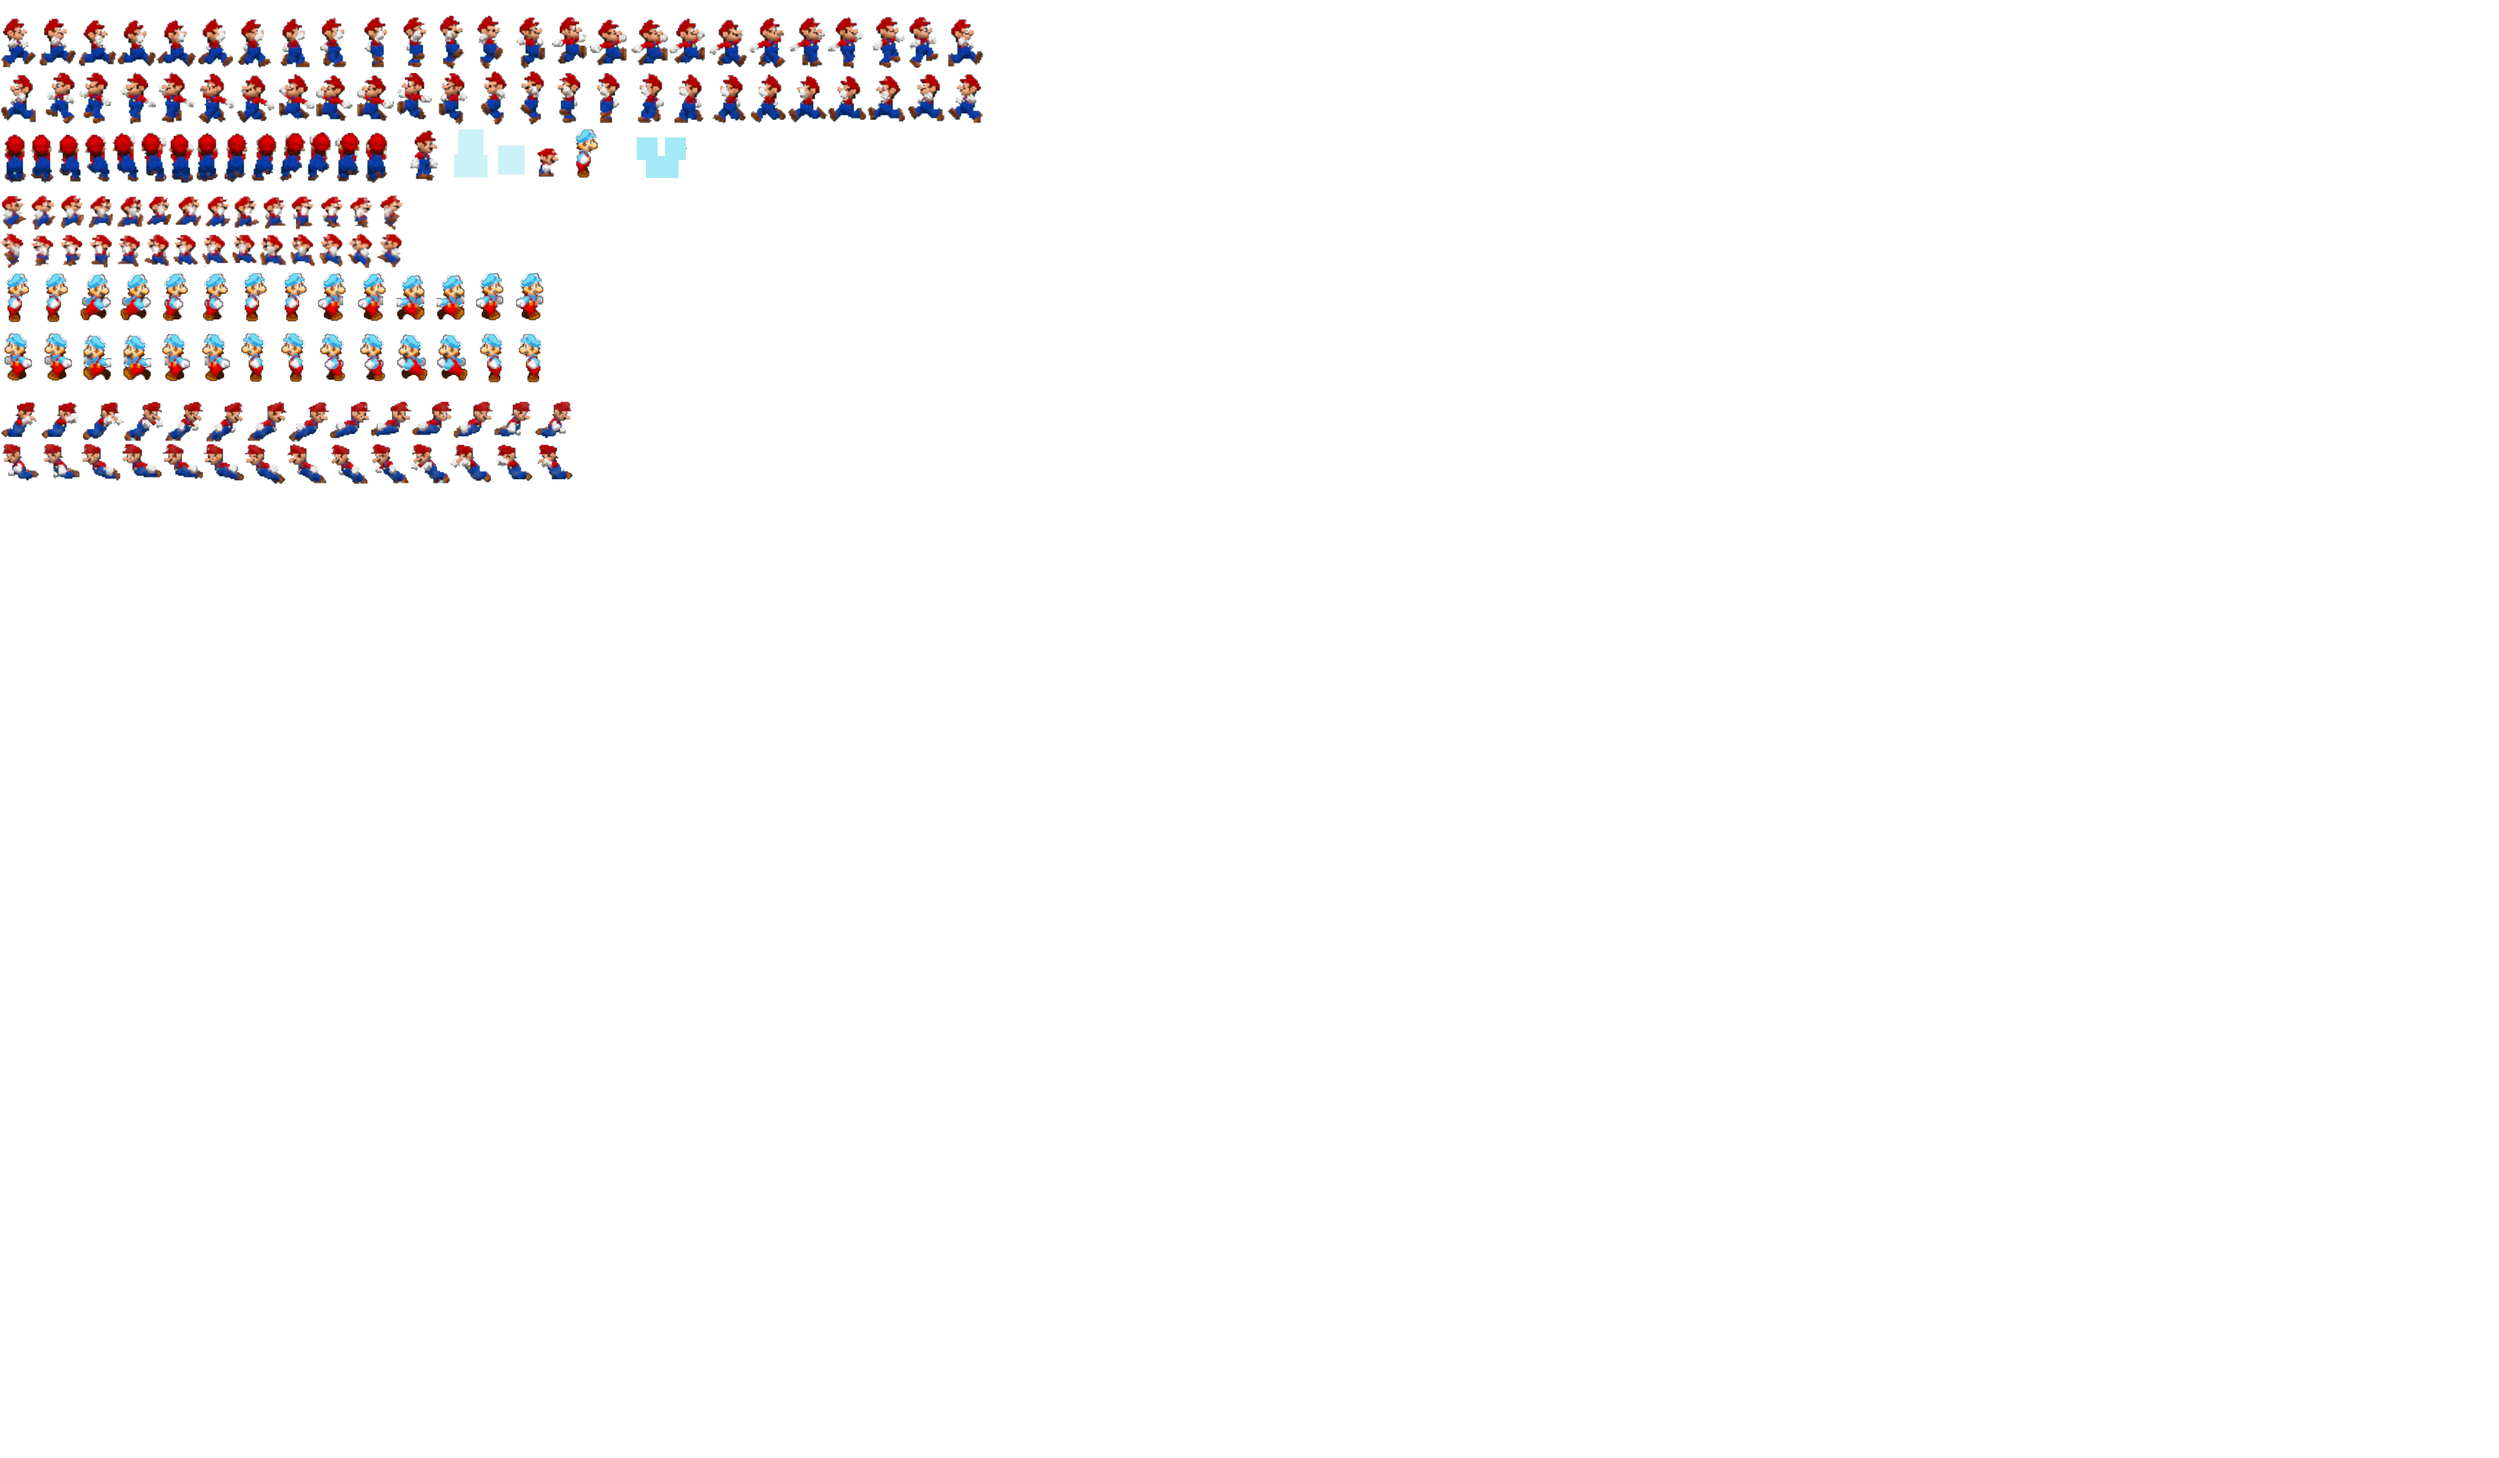
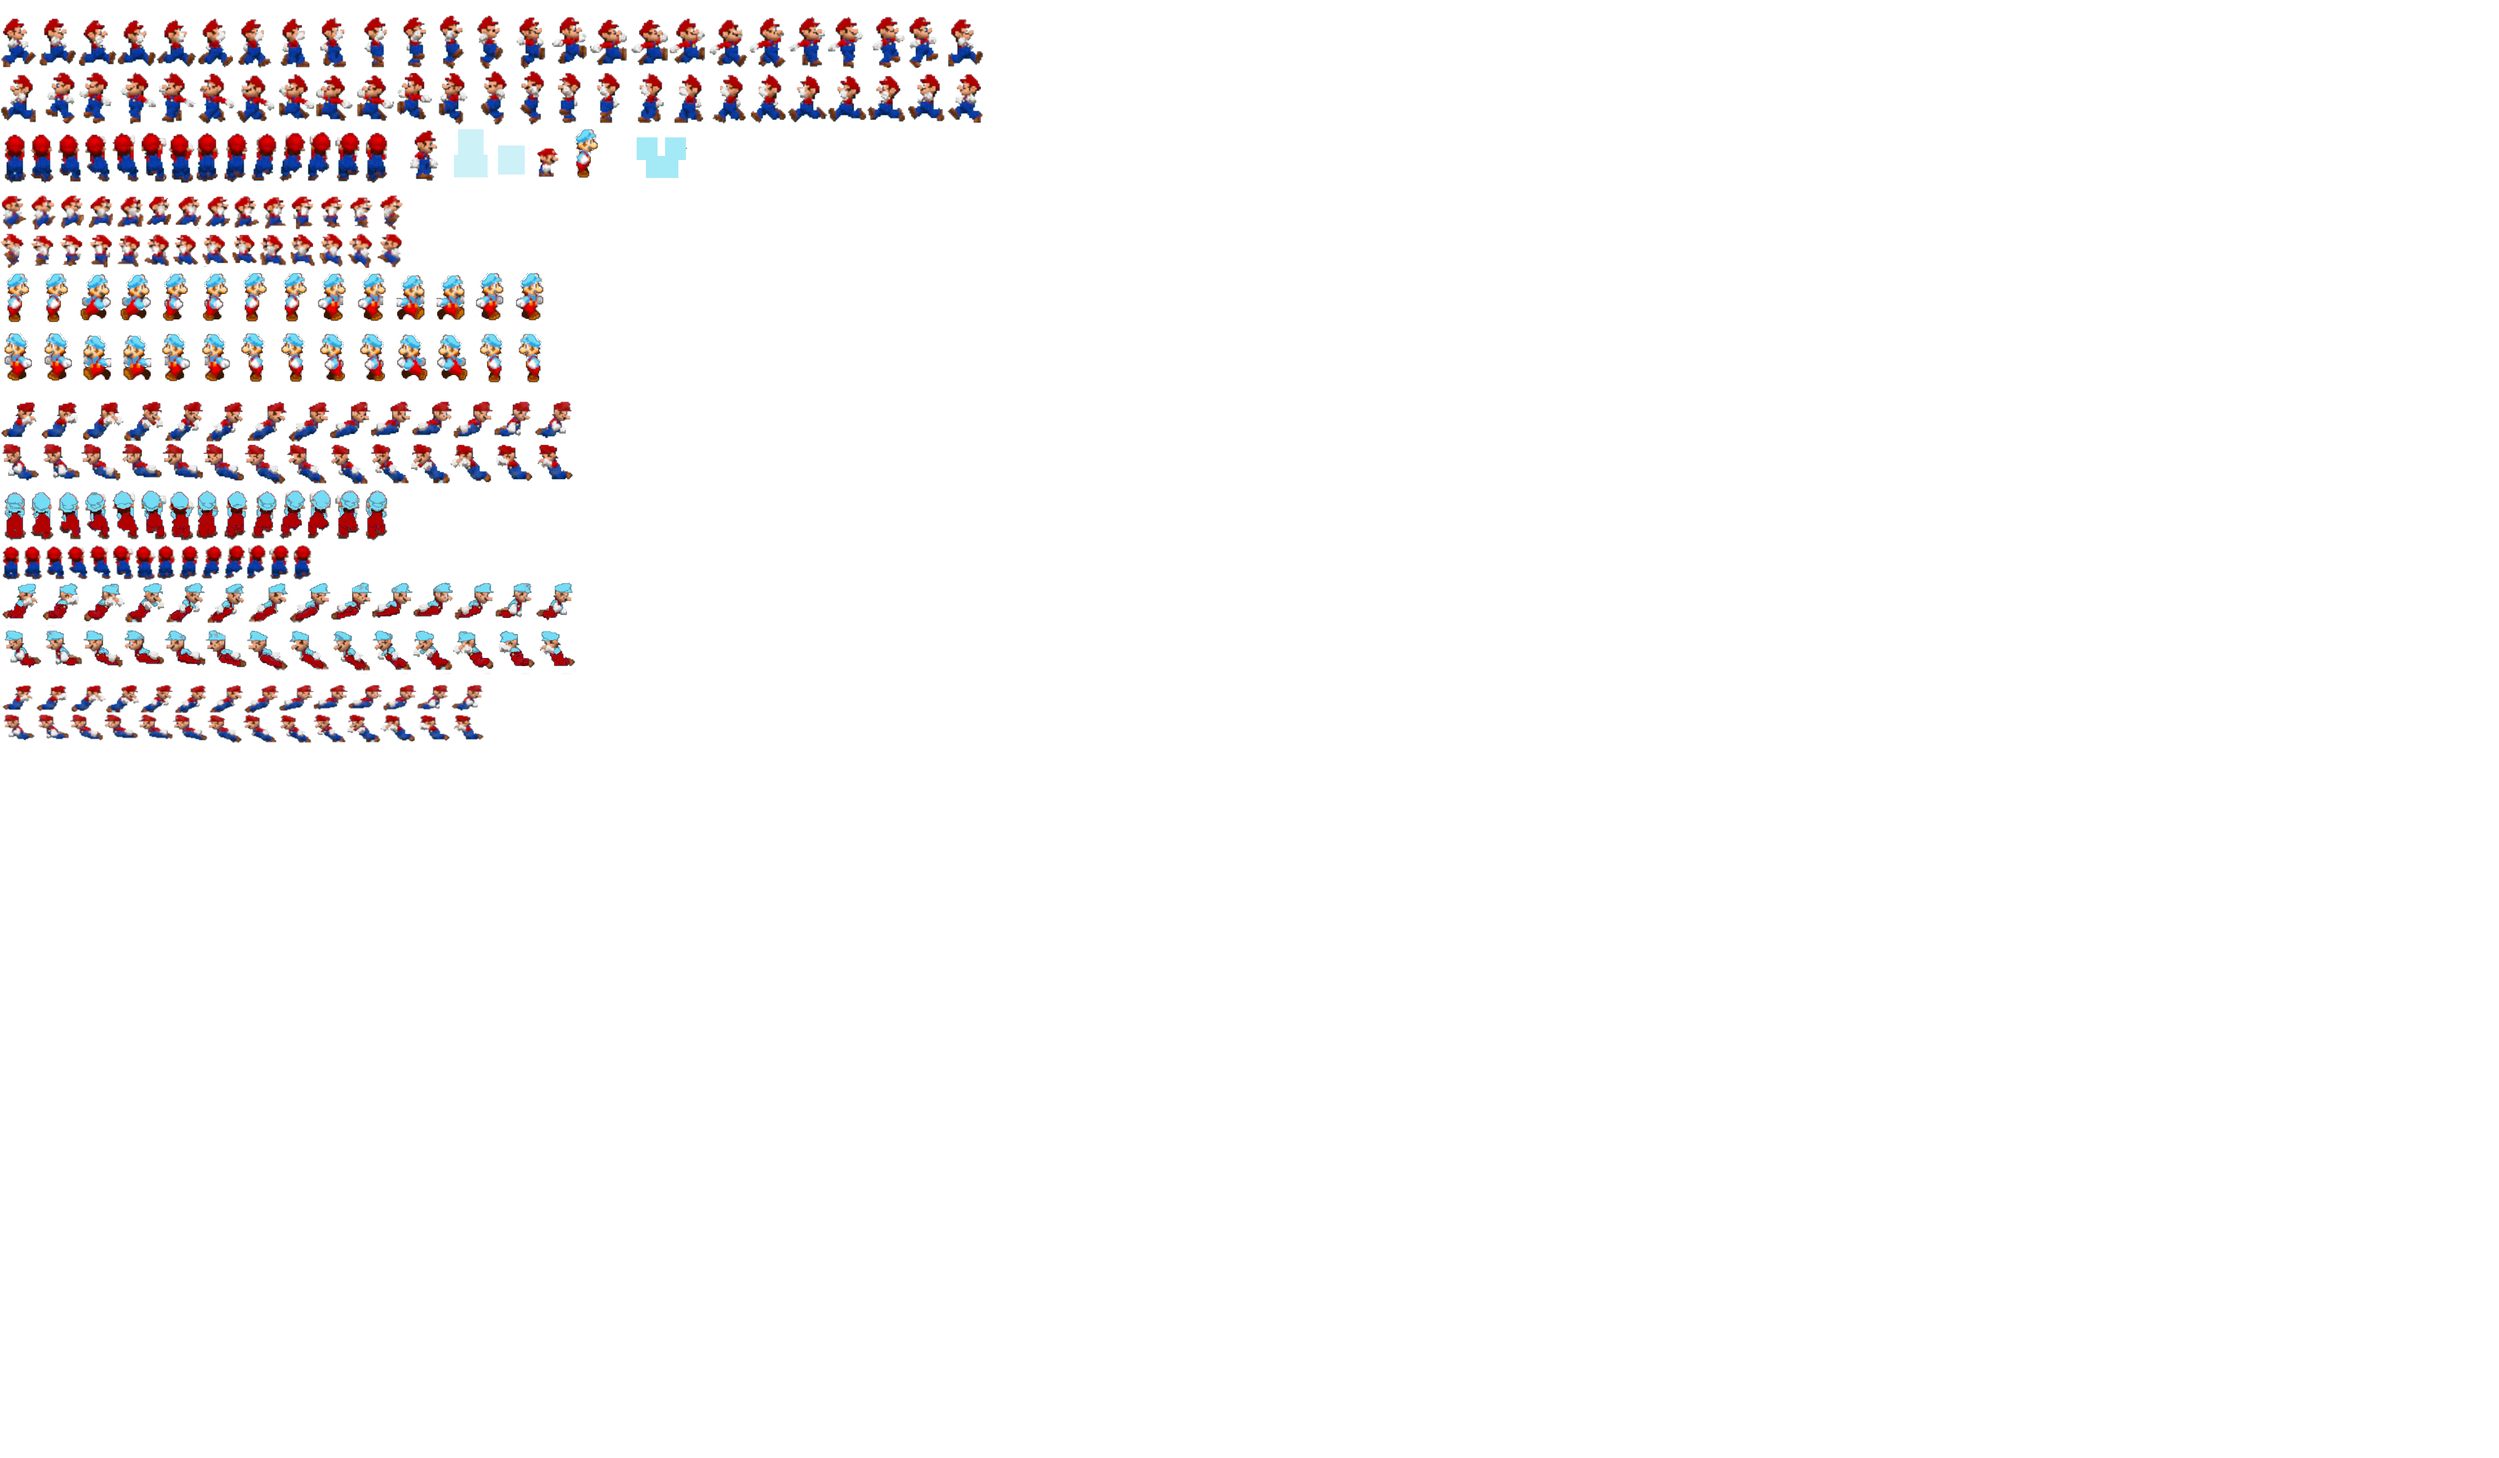
adding swimming and climbing sprites

Changed region(s): [[0.0, 0.3412, 0.2487, 0.5272]]

diff --git a/images.py b/images.py
@@ -49,8 +49,14 @@ MARIO_RIGHT = sheet.get_images(25, 90, 68, 22)
 MARIO_LEFT = sheet.get_images(25, 90, 68, 126)
 MARIO_JUMP = sheet.getimage(1019, 3, 71, 89)
 MARIO_CLIMB = sheet.get_images(14, 81, 48, 227)
+MARIO_CLIMB_BIG = sheet.get_images(14, 81, 48, 850)
+MARIO_CLIMB_LITTLE = sheet.get_images(14, 59, 38, 940)
 SWIM_R = sheet.get_images(14, 73, 71, 691)
+SWIM_R_BIG = sheet.get_images(14, 73, 71, 1003)
+SWIM_R_LITTLE = sheet.get_images(14, 50, 60, 1175)
 SWIM_L = sheet.get_images(14, 73, 71, 764)
+SWIM_L_BIG = sheet.get_images(14, 73, 71, 1088)
+SWIM_L_LITTLE = sheet.get_images(14, 50, 60, 1232)
 MARIO_STOP = sheet.getimage(707, 220, 53, 90)
 MARIO_STOP_L = sheet.getimage(926, 247, 38, 58)
 MARIO_STOP_B = sheet.getimage(988, 215, 86, 90)
@@ -67,19 +73,19 @@ def get_mario(player):
     if not player.moving:
         player.frame = 0
         if player.climbing:
-            player.image = MARIO_CLIMB[0]
+            get_sized_mario(MARIO_CLIMB_LITTLE[0], MARIO_CLIMB[0], MARIO_CLIMB_BIG[0], player, -2)
         elif player.swimming:
-            player.image = SWIM_R[0]
+            get_sized_mario(SWIM_R_LITTLE[0], SWIM_R[0], SWIM_R_BIG[0], player, -3)
         else:
             get_sized_mario(MARIO_STOP_L, MARIO_STOP, MARIO_STOP_B, player, -1)
         return
     elif player.climbing:
-        player.current_image(0, MARIO_CLIMB)
+        get_sized_mario(MARIO_CLIMB_LITTLE, MARIO_CLIMB, MARIO_CLIMB_BIG, player, 0)
     elif player.swimming:
         if constants.GO_RIGHT == constants.CURRENT_DIR:
-            player.current_image(2.3, SWIM_R)
+            get_sized_mario(SWIM_R_LITTLE, SWIM_R, SWIM_R_BIG, player, 4)
         elif constants.GO_LEFT == constants.CURRENT_DIR:
-            player.current_image(3.3, SWIM_L)
+            get_sized_mario(SWIM_L_LITTLE, SWIM_L, SWIM_L_BIG, player, 5)
         else:
             player.current_image(player.current, None)
     elif player.change_x > 0:  # choosing adapted image depending on the current direction
